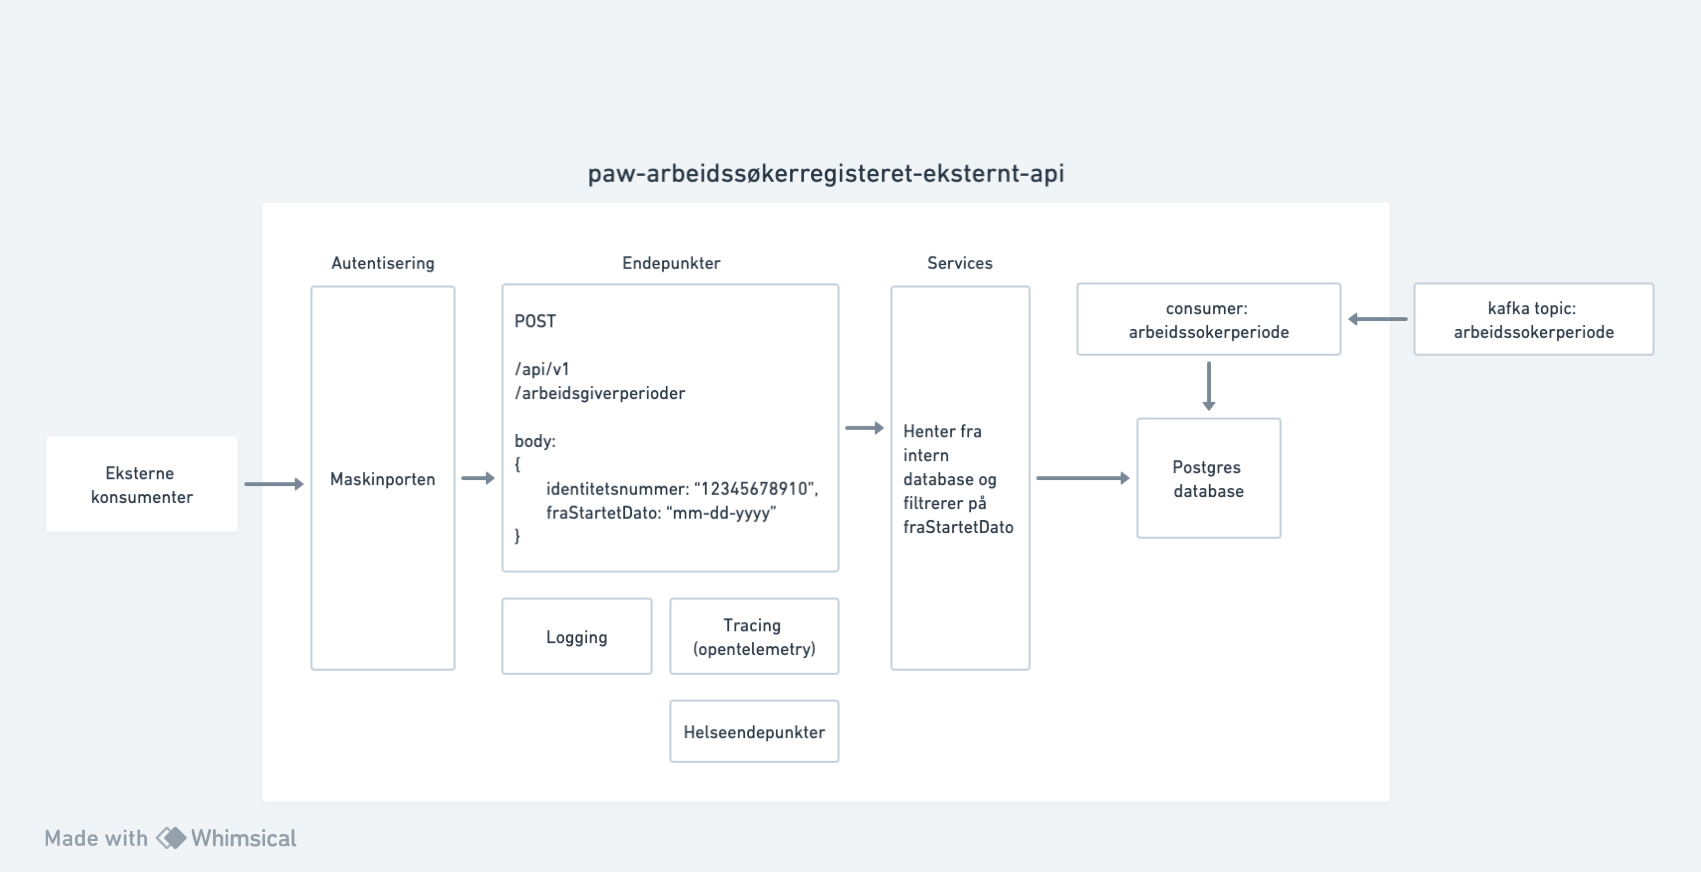
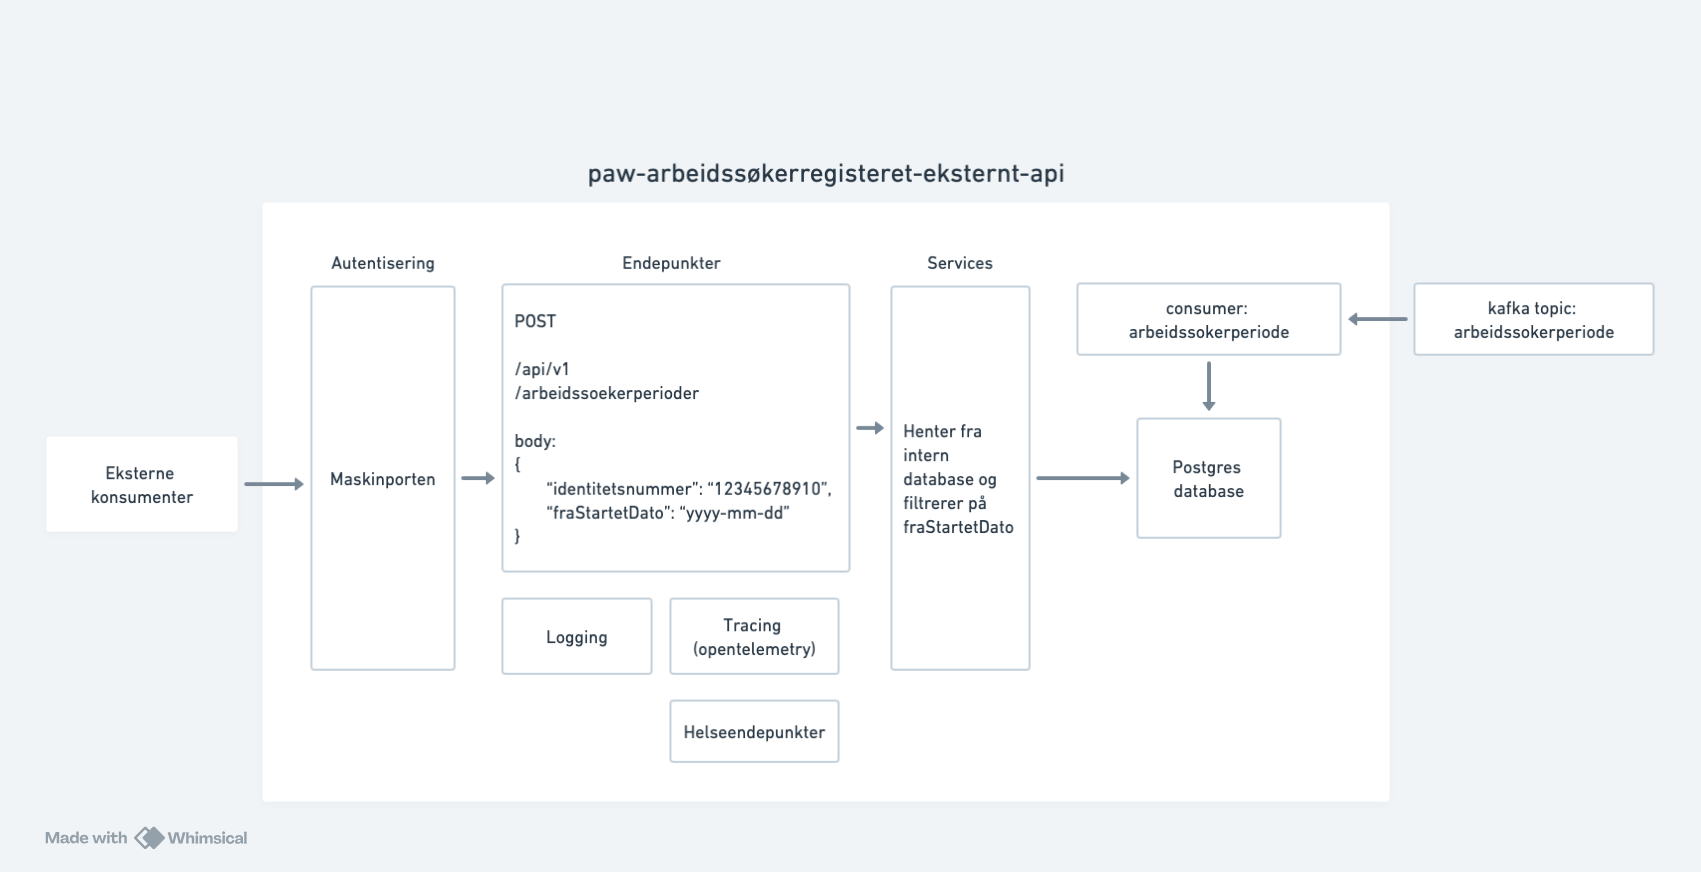
Bumper til v14, oppdaterer readme/flytdiagram, skall for ConsumerTest

Changed region(s): [[0.3116, 0.5264, 0.4985, 0.6193], [0.0312, 0.9289, 0.1869, 0.9908], [0.3427, 0.4335, 0.4051, 0.4644]]

diff --git a/src/test/kotlin/no/nav/paw/arbeidssoekerregisteret/eksternt/api/consumers/PeriodeConsumerTest.kt b/src/test/kotlin/no/nav/paw/arbeidssoekerregisteret/eksternt/api/consumers/PeriodeConsumerTest.kt
@@ -1,0 +1,80 @@
+package no.nav.paw.arbeidssoekerregisteret.eksternt.api.consumers
+
+import io.kotest.core.spec.style.FunSpec
+/*import io.mockk.Runs
+import io.mockk.every
+import io.mockk.just
+import io.mockk.mockk
+import io.mockk.verify
+import no.nav.paw.arbeidssokerregisteret.api.v1.Periode
+import org.apache.kafka.clients.consumer.ConsumerRecord
+import org.apache.kafka.clients.consumer.ConsumerRecords
+import org.apache.kafka.clients.consumer.KafkaConsumer
+import org.apache.kafka.common.TopicPartition
+import java.time.Duration
+import kotlin.concurrent.thread*/
+
+class PeriodeConsumerTest : FunSpec({
+    test("test") {
+        assert(true)
+    }
+
+    /*test("should consume and process messages when toggle is active") {
+        val topic = "test-topic"
+        val consumerMock = mockk<KafkaConsumer<Long, Periode>>()
+        val serviceMock = mockk<ArbeidssoekerperiodeService>()
+        val unleashClientMock = mockk<Unleash>()
+
+        val consumer = BatchConsumer(topic, consumerMock, serviceMock::lagreBatch, unleashClientMock)
+
+        every { unleashClientMock.isEnabled("aktiver-kafka-konsumere") } returns true
+        every { consumerMock.subscribe(listOf(topic)) } just Runs
+        every { consumerMock.assignment() } returns setOf(TopicPartition(topic, 0))
+        every { consumerMock.poll(any<Duration>()) } returns createConsumerRecords()
+        every { serviceMock.lagreBatch(any()) } just Runs
+        every { consumerMock.commitSync() } just Runs
+        every { consumerMock.resume(any()) } just Runs
+
+        thread {
+            consumer.start()
+        }
+
+        verify { consumerMock.subscribe(listOf(topic)) }
+        verify { consumerMock.assignment() }
+        verify { consumerMock.poll(any<Duration>()) }
+        verify { serviceMock.lagreBatch(any()) }
+        verify { consumerMock.commitSync() }
+
+        consumer.stop()
+    }
+
+    test("should not consume messages when toggle is inactive") {
+        val topic = "test-topic"
+        val consumerMock = mockk<KafkaConsumer<Long, Periode>>()
+        val serviceMock = mockk<ArbeidssoekerperiodeService>()
+        val unleashClientMock = mockk<Unleash>()
+
+        val consumer = BatchConsumer(topic, consumerMock, serviceMock::lagreBatch, unleashClientMock)
+
+        every { unleashClientMock.isEnabled("aktiver-kafka-konsumere") } returns false
+        every { consumerMock.subscribe(listOf(topic)) } just Runs
+
+        thread {
+            consumer.start()
+        }
+
+        verify { consumerMock.subscribe(listOf(topic)) }
+        verify(exactly = 0) { consumerMock.poll(any<Duration>()) }
+        verify(exactly = 0) { serviceMock.lagreBatch(any()) }
+        verify(exactly = 0) { consumerMock.commitSync() }
+
+        consumer.stop()
+    }*/
+})
+
+/*private fun createConsumerRecords(): ConsumerRecords<Long, Periode> {
+    val records = mutableMapOf<TopicPartition, MutableList<ConsumerRecord<Long, Periode>>>()
+    val topic = "test-topic"
+    records[TopicPartition(topic, 0)] = mutableListOf(ConsumerRecord(topic, 0, 0, 1L, TopicUtils().lagTestPerioder()[0]))
+    return ConsumerRecords(records)
+}*/

diff --git a/src/main/kotlin/no/nav/paw/arbeidssoekerregisteret/eksternt/api/Application.kt b/src/main/kotlin/no/nav/paw/arbeidssoekerregisteret/eksternt/api/Application.kt
@@ -10,6 +10,7 @@ import no.nav.paw.arbeidssoekerregisteret.eksternt.api.plugins.configureSerializ
 import no.nav.paw.arbeidssoekerregisteret.eksternt.api.routes.arbeidssoekerRoutes
 import no.nav.paw.arbeidssoekerregisteret.eksternt.api.routes.healthRoutes
 import no.nav.paw.arbeidssoekerregisteret.eksternt.api.routes.swaggerRoutes
+import no.nav.paw.arbeidssoekerregisteret.eksternt.api.utils.cleanDatabase
 import no.nav.paw.arbeidssoekerregisteret.eksternt.api.utils.logger
 import no.nav.paw.arbeidssoekerregisteret.eksternt.api.utils.migrateDatabase
 import kotlin.concurrent.thread
@@ -22,6 +23,9 @@ fun Application.module() {
     // Avhengigheter
     val dependencies = createDependencies()
     val environmentConfig = environment.config
+
+    // Clean database etter versjon v14
+    cleanDatabase(dependencies.dataSource) // TODO: Fjern ved neste commit for v14
 
     // Migrerer database
     migrateDatabase(dependencies.dataSource)

diff --git a/README.md b/README.md
@@ -93,14 +93,14 @@ Kafka UI ligger i docker-compose, og finnes på http://localhost:9000
 
 Kjør `./gradlew produceLocalMessagesForTopics`
 
-Denne tasken sender to meldinger til `arbeidssokerperioder-beta-v7`.
+Denne tasken sender to meldinger til `arbeidssokerperioder-beta-v11`.
 
 ### Consumer
 
-Konsumer meldinger fra `arbeidssokerperioder-beta-v7`
+Konsumer meldinger fra `arbeidssokerperioder-beta-v11`
 
 ```sh
-docker exec -it paw-arbeidssoekerregisteret-eksternt-api_kafka_1 /usr/bin/kafka-console-consumer --bootstrap-server 127.0.0.1:9092 --topic arbeidssoekerperioder-beta-v7
+docker exec -it paw-arbeidssoekerregisteret-eksternt-api_kafka_1 /usr/bin/kafka-console-consumer --bootstrap-server 127.0.0.1:9092 --topic arbeidssoekerperioder-beta-v11
 ```
 
 ## Formatering
